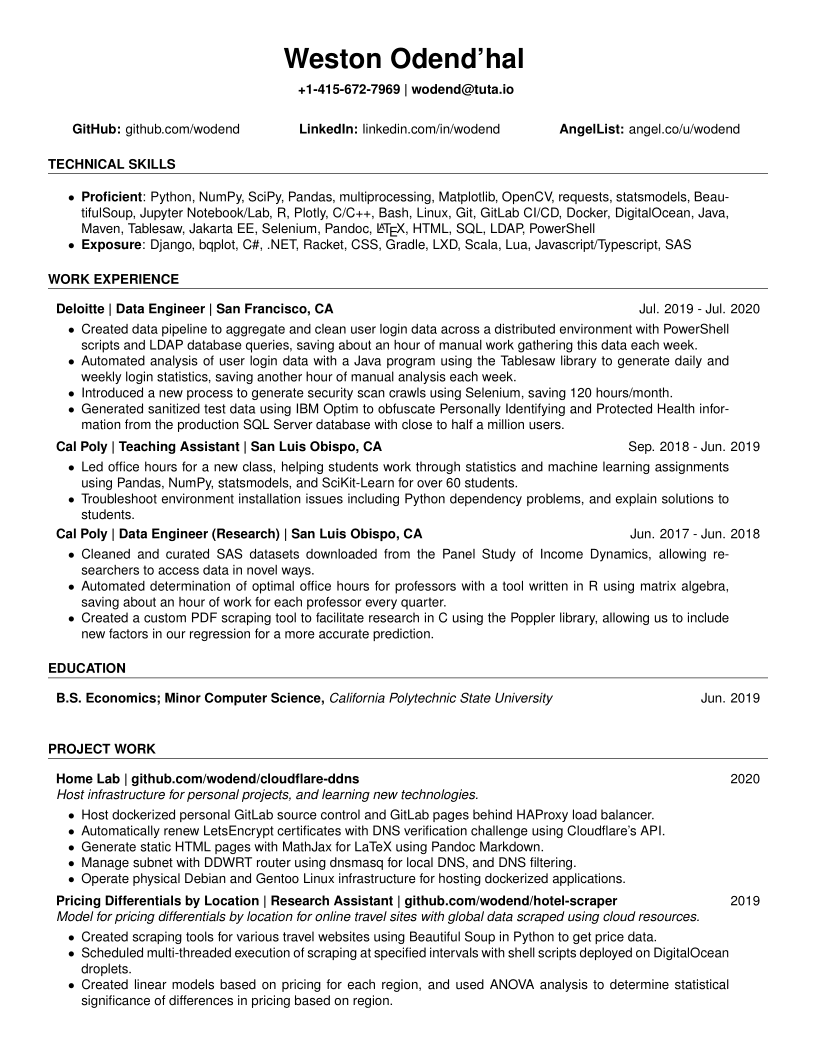
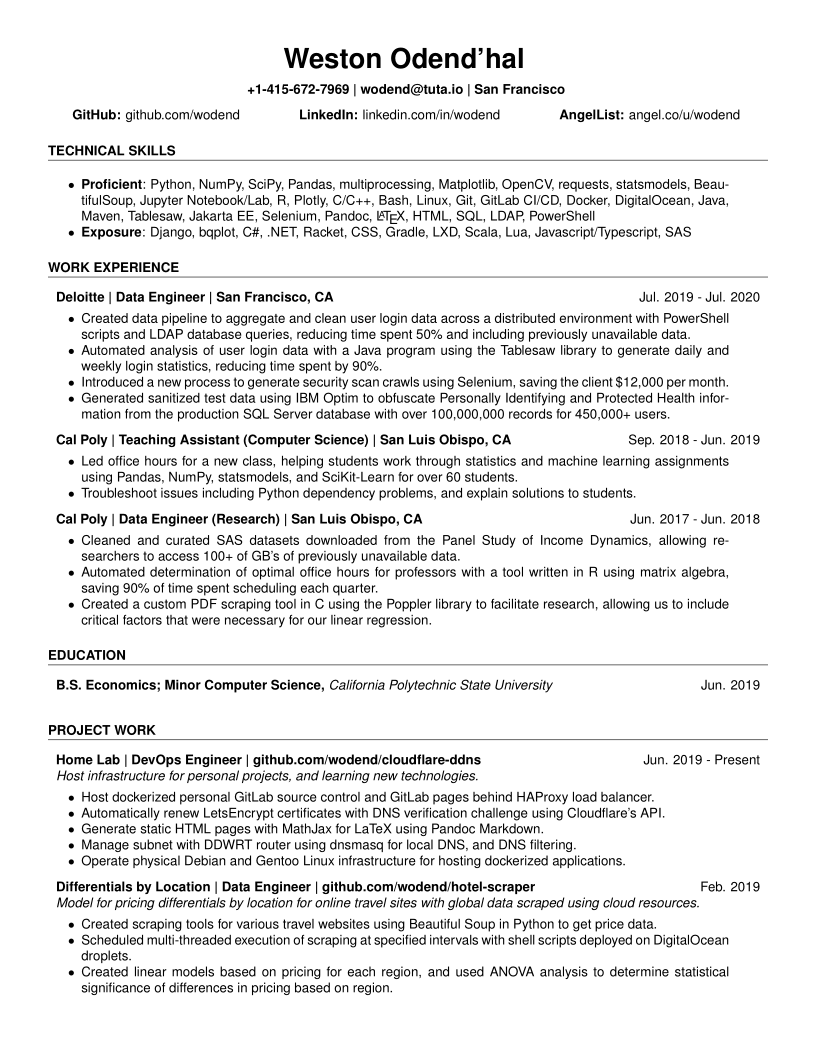
Reword some sections for clarity.

diff --git a/resume.tex b/resume.tex
@@ -36,7 +36,7 @@
 \newcommand{\education}[3]{
   \begin{tabular*}{\textwidth}[t]{l@{\extracolsep{\fill}}r}
     \normalsize\textbf{#1, }\textit{#2} & \normalsize #3 \\
-  \end{tabular*}
+  \end{tabular*}\vspace{-5pt}
 }
 \newcommand{\social}[3]{
   \begin{tabular*}{0.95\textwidth}[t]{l@{\extracolsep{\fill}} c@{\extracolsep{\fill}} r}
@@ -54,8 +54,8 @@
   \centering\huge\textbf{Weston Odend'hal}
   \vspace*{0.1in}
 
-  \normalsize \textbf{+1-415-672-7969 | \href{mailto:wodend@tuta.io}{wodend@tuta.io}}
-  \vspace*{0.25in}
+  \normalsize \textbf{+1-415-672-7969 | \href{mailto:wodend@tuta.io}{wodend@tuta.io} | San Francisco}
+  \vspace*{0.1in}
 
   \social
     {\textbf{GitHub:} \href{https://github.com/wodend/}{github.com/wodend}}
@@ -64,6 +64,7 @@
 
   \section{TECHNICAL SKILLS}
   \beginResumeList
+  %\boldItem{Proficient}{Python, NumPy, SciPy, Pandas, multiprocessing, Matplotlib, OpenCV, requests, statsmodels, BeautifulSoup, Jupyter Notebook/Lab, R, Plotly, C/C++, Bash, Linux, Git, GitLab CI/CD, Docker, DigitalOcean, Java, Maven, Tablesaw, Jakarta EE, Selenium, Pandoc, \LaTeX, HTML, SQL, LDAP, PowerShell}
   \boldItem{Proficient}{Python, NumPy, SciPy, Pandas, multiprocessing, Matplotlib, OpenCV, requests, statsmodels, BeautifulSoup, Jupyter Notebook/Lab, R, Plotly, C/C++, Bash, Linux, Git, GitLab CI/CD, Docker, DigitalOcean, Java, Maven, Tablesaw, Jakarta EE, Selenium, Pandoc, \LaTeX, HTML, SQL, LDAP, PowerShell}
   \boldItem{Exposure}{Django, bqplot, C\#, .NET, Racket, CSS, Gradle, LXD, Scala, Lua, Javascript/Typescript, SAS}
   \resumeListEnd
@@ -73,28 +74,28 @@
     {Deloitte | Data Engineer | San Francisco, CA}
     {Jul. 2019 - Jul. 2020}
     \beginResumeList
-      \normalItem{Created data pipeline to aggregate and clean user login data across a distributed environment with PowerShell scripts and LDAP database queries, saving about an hour of manual work gathering this data each week.}
-      \normalItem{Automated analysis of user login data with a Java program using the Tablesaw library to generate daily and weekly login statistics, saving another hour of manual analysis each week.}
-      \normalItem{Introduced a new process to generate security scan crawls using Selenium, saving 120 hours/month.}
-      \normalItem{Generated sanitized test data using IBM Optim to obfuscate Personally Identifying and Protected Health information from the production SQL Server database with close to half a million users.}
+      \normalItem{Created data pipeline to aggregate and clean user login data across a distributed environment with PowerShell scripts and LDAP database queries, reducing time spent 50\% and including previously unavailable data.}
+      \normalItem{Automated analysis of user login data with a Java program using the Tablesaw library to generate daily and weekly login statistics, reducing time spent by 90\%.}
+      \normalItem{Introduced a new process to generate security scan crawls using Selenium, saving the client \$12,000 per month.}
+      \normalItem{Generated sanitized test data using IBM Optim to obfuscate Personally Identifying and Protected Health information from the production SQL Server database with over 100,000,000 records for 450,000+ users.}
     \resumeListEnd
 
   \experience
-    {Cal Poly | Teaching Assistant | San Luis Obispo, CA}
+    {Cal Poly | Teaching Assistant (Computer Science) | San Luis Obispo, CA}
     {Sep. 2018 - Jun. 2019}
     \beginResumeList
       \normalItem{Led office hours for a new class, helping students work through statistics and machine learning assignments using Pandas, NumPy, statsmodels, and SciKit-Learn for over 60 students.}
       %\normalItem{Took questions in class on general programming concepts such as data structures, web scraping, computational complexity, and regular expressions.}
-      \normalItem{Troubleshoot environment installation issues including Python dependency problems, and explain solutions to students.}
+      \normalItem{Troubleshoot issues including Python dependency problems, and explain solutions to students.}
     \resumeListEnd
 
   \experience
     {Cal Poly | Data Engineer (Research) | San Luis Obispo, CA}
     {Jun. 2017 - Jun. 2018}
     \beginResumeList
-      \normalItem{Cleaned and curated SAS datasets downloaded from the Panel Study of Income Dynamics, allowing researchers to access data in novel ways.}
-      \normalItem{Automated determination of optimal office hours for professors with a tool written in R using matrix algebra, saving about an hour of work for each professor every quarter.}
-      \normalItem{Created a custom PDF scraping tool to facilitate research in C using the Poppler library, allowing us to include new factors in our regression for a more accurate prediction.}
+      \normalItem{Cleaned and curated SAS datasets downloaded from the Panel Study of Income Dynamics, allowing researchers to access 100+ of GB's of previously unavailable data.}
+      \normalItem{Automated determination of optimal office hours for professors with a tool written in R using matrix algebra, saving 90\% of time spent scheduling each quarter.}
+      \normalItem{Created a custom PDF scraping tool in C using the Poppler library to facilitate research, allowing us to include critical factors that were necessary for our linear regression.}
     \resumeListEnd
 
 \section{EDUCATION}
@@ -105,8 +106,8 @@
 
 \section{PROJECT WORK}
   \project
-    {Home Lab | \href{https://github.com/wodend/cloudflare-ddns}{github.com/wodend/cloudflare-ddns}}
-    {2020}
+    {Home Lab | DevOps Engineer | \href{https://github.com/wodend/cloudflare-ddns}{github.com/wodend/cloudflare-ddns}}
+    {Jun. 2019 - Present}
     {Host infrastructure for personal projects, and learning new technologies.}
     \beginResumeList
       \normalItem{Host dockerized personal GitLab source control and GitLab pages behind HAProxy load balancer.}
@@ -117,8 +118,8 @@
     \resumeListEnd
 
   \project
-    {Pricing Differentials by Location | Research Assistant | \href{https://github.com/wodend/hotel-scraper}{github.com/wodend/hotel-scraper}}
-    {2019}
+    {Differentials by Location | Data Engineer | \href{https://github.com/wodend/hotel-scraper}{github.com/wodend/hotel-scraper}}
+    {Feb. 2019} %- Jun. 2019}
     {Model for pricing differentials by location for online travel sites with global data scraped using cloud resources.}
     \beginResumeList
       \normalItem{Created scraping tools for various travel websites using Beautiful Soup in Python to get price data.}
